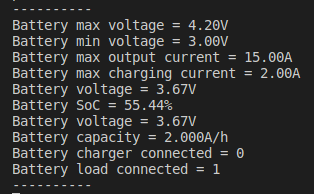
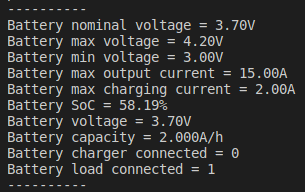
Add function description

Changed region(s): [[0.0, 0.0938, 0.9738, 1.0], [0.0295, 0.0312, 0.2951, 0.0625], [0.6787, 0.8438, 0.7082, 0.9062]]

diff --git a/src/main.c b/src/main.c
@@ -101,7 +101,6 @@ void *b_managerTask()
             printf("Battery min voltage = %.2fV\n", b_manager.minVoltage);
             printf("Battery max output current = %.2fA\n", b_manager.maxOutputCurrent);
             printf("Battery max charging current = %.2fA\n", b_manager.maxChargingCurrent);
-            printf("Battery voltage = %.2fV\n", getBatteryVoltage(&b_manager));
             printf("Battery SoC = %.2f%%\n", getStateOfCharge(&b_manager));
             printf("Battery voltage = %.2fV\n", getBatteryVoltage(&b_manager));
             printf("Battery capacity = %.3fA/h\n", getBatteryCapacity(&b_manager));

diff --git a/ReadMe.md b/ReadMe.md
@@ -12,7 +12,7 @@ ____
 При помощи консоли имитируются различные действия с батареей, например подключение зарядного устройства. Также через консоль можно получать информацию о состоянии батареи и различных ее параметрах.
 ____
 ## Структура менеджера батареи
-Структура менеджера батареи состоит из таких полей
+Структура менеджера батареи состоит из таких полей:
 ```C
 typedef struct 
 {
@@ -30,25 +30,25 @@ typedef struct
     uint8_t isLoadConnected;
 } BatteryManager;
 ```
-*capacity* - номинальная емкость батареи
+*capacity* - номинальная емкость батареи.
 
-*nominalVoltage* - номинальное напряжение батареи
+*nominalVoltage* - номинальное напряжение батареи.
 
-*minVoltage* - минимальное допустимое напряжение батареи
+*minVoltage* - минимальное допустимое напряжение батареи.
 
-*maxVoltage* - максимально допустимое напряжение батареи
+*maxVoltage* - максимально допустимое напряжение батареи.
 
-*currentVoltage* - текущее напрежение батареи
+*currentVoltage* - текущее напрежение батареи.
 
-*maxOutputCurrent* - максимальный выходной ток батареи
+*maxOutputCurrent* - максимальный выходной ток батареи.
 
-*chargingVoltage* - номинальное напряжение зарядки
+*chargingVoltage* - номинальное напряжение зарядки.
 
-*maxChargingCurrent* - максимальный ток зарядки
+*maxChargingCurrent* - максимальный ток зарядки.
 
-*isChargerConnected* - флаг подключения зарядноко устройства
+*isChargerConnected* - флаг подключения зарядноко устройства.
 
-*isLoadConnected* - флаг подключения нагрузки
+*isLoadConnected* - флаг подключения нагрузки.
 ___
 ## Функции менеджера батареи
 ```C
@@ -64,23 +64,27 @@ uint8_t connectLoad(BatteryManager* batteryManager, double voltage, double curre
 void disconnectLoad(BatteryManager* batteryManager);
 uint8_t unchargeBattery(BatteryManager* batteryManager, double voltage, double current);
 ```
-*getBatteryVoltage()* - получение текущего напряжения батареи
+*getBatteryVoltage()* - получение текущего напряжения батареи.
 
-*getBatteryCapacity()* - получение номинальной емкости батареи
+*getBatteryCapacity()* - получение номинальной емкости батареи.
 
-*getStateOfCharge()* - получение уровня заряда батареи в процентах
+*getStateOfCharge()* - получение уровня заряда батареи в процентах.
 
-*connectCharger()* - подключение зарядного устройства
+*connectCharger()* - подключение зарядного устройства.
+ - При подключении зарядного устройства проверяется напряжение и максимальный ток зарядки. Если параметры устройства не соответствуют допустимым, то зарядное устройство не подключится.
 
 *disconnectCharger()* - отключение зарядного устройства
 
-*chargeBattery()* - зарядка батареи
+*chargeBattery()* - зарядка батареи.
+ - Во время зарядки проверяется напряжение и ток зарядки. Если параметры не соответствуют допустимым, то зарядка прекратится и зарядное устройство отключится. При низком заряде батареи она заряжается маленьким током. Когда батарея зарядится полностью зарядное устройство отключится.
 
-*connectLoad()* - подключение нагрузки к батарее
+*connectLoad()* - подключение нагрузки к батарее.
+ - При подключении нагрузки проверяется напряжение и максимальное потребление. Если параметры нагрузки не соответствуют допустимым, то нагрузки не подключится.
 
-*disconnectLoad()* - отключение нагрузки к батарее
+*disconnectLoad()* - отключение нагрузки от батареи.
 
-*unchargeBattery()* - разрядка батареи
+*unchargeBattery()* - разрядка батареи.
+ - Во время разряда батареи проверяется напряжение и ток разряда. Если параметры не соответствуют допустимым, то нагрузка отключится. При низком заряде батареи нагрузка автоматически отключится.
 ___
 ## Результаты работы
 ### Подключение зарядного устройства
